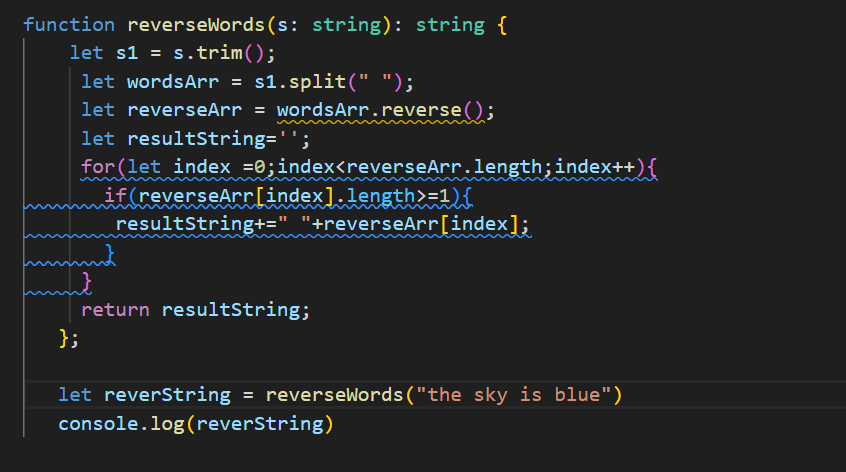
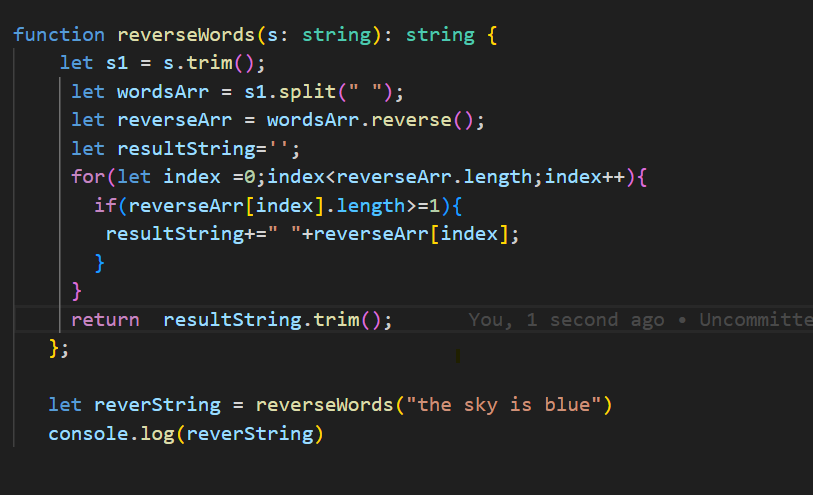
day7

diff --git a/day7.ts b/day7.ts
@@ -1,0 +1,33 @@
+// Given an integer array nums, return an array answer such that answer[i] is equal to the product of all the elements of nums except nums[i].
+
+// The product of any prefix or suffix of nums is guaranteed to fit in a 32-bit integer.
+
+// You must write an algorithm that runs in O(n) time and without using the division operation.
+
+ 
+
+// Example 1:
+
+// Input: nums = [1,2,3,4]
+// Output: [24,12,8,6]
+// Example 2:
+
+// Input: nums = [-1,1,0,-3,3]
+// Output: [0,0,9,0,0]
+
+function productExceptSelf(nums: number[]): number[] {
+    let output :number[]=[];
+    
+        for(let i=0;i<nums.length;i++){
+            let product=1;
+            for(let j=0;j<nums.length;j++){
+                if(i===j)continue;
+                product*=nums[j];
+            }
+            output.push(product);
+        }
+        return output;
+    };
+
+    let res = productExceptSelf( [-1,1,0,-3,3])
+    console.log(res)

diff --git a/day7.js b/day7.js
@@ -1,0 +1,25 @@
+// Given an integer array nums, return an array answer such that answer[i] is equal to the product of all the elements of nums except nums[i].
+// The product of any prefix or suffix of nums is guaranteed to fit in a 32-bit integer.
+// You must write an algorithm that runs in O(n) time and without using the division operation.
+// Example 1:
+// Input: nums = [1,2,3,4]
+// Output: [24,12,8,6]
+// Example 2:
+// Input: nums = [-1,1,0,-3,3]
+// Output: [0,0,9,0,0]
+function productExceptSelf(nums) {
+    var output = [];
+    for (var i = 0; i < nums.length; i++) {
+        var product = 1;
+        for (var j = 0; j < nums.length; j++) {
+            if (i === j)
+                continue;
+            product *= nums[j];
+        }
+        output.push(product);
+    }
+    return output;
+}
+;
+var res = productExceptSelf([-1, 1, 0, -3, 3]);
+console.log(res);

diff --git a/day6.ts b/day6.ts
@@ -33,7 +33,7 @@ function reverseWords(s: string): string {
         resultString+=" "+reverseArr[index];
        }
      } 
-     return resultString;
+     return  resultString.trim();
    };
 
    let reverString = reverseWords("the sky is blue")

diff --git a/README.md b/README.md
@@ -136,3 +136,51 @@ Step 3 : convert the string to array
 Step 4 : loop until start is less than end 
 Step 5 : inside loop, again loop until it found a vowel , increase and decrease pointers accordingly 
 Step : swap now 
+Day6 Problem no: 151
+Given an input string s, reverse the order of the words.
+A word is defined as a sequence of non-space characters. The words in s will be separated
+by at least one space.
+Return a string of the words in reverse order concatenated by a single space.
+Note that s may contain leading or trailing spaces or multiple spaces between two words. The
+returned string should only have a single space separating the words. Do not include any
+extra spaces.
+Example 1:
+Input: s = "the sky is blue"
+Output: "blue is sky the"
+Example 2:
+Input: s = " hello world "
+Output: "world hello"
+Explanation: Your reversed string should not contain leading or trailing spaces.
+Solution
+For this problem ,
+Step 1. Trim and Split string into array with single blankspace and store it
+Step 2 . Reverse the stored array
+Step 3. Loop the reversed array and concatenate only the string with length
+greater than 1 with an blank space ;
+Shubham Agrahari
+Step 4 : return the result string after trimming again ;
+
+
+Day7  Problem no: 238
+
+Given an integer array nums, return an array answer such that answer[i] is equal to the product of all the elements of nums except nums[i].
+The product of any prefix or suffix of nums is guaranteed to fit in a 32-bit integer.
+You must write an algorithm that runs in O(n) time and without using the division operation.
+ 
+Example 1:
+Input: nums = [1,2,3,4]
+Output: [24,12,8,6]
+
+Example 2:
+Input: nums = [-1,1,0,-3,3]
+Output: [0,0,9,0,0]
+
+
+Solution 
+
+
+For this problem following brute force approach 
+Iterate over two loops 
+After the first loop initialize a variable for multiplication of that index
+Check condition (i==j) it should not calculate multiplication of its own 
+
